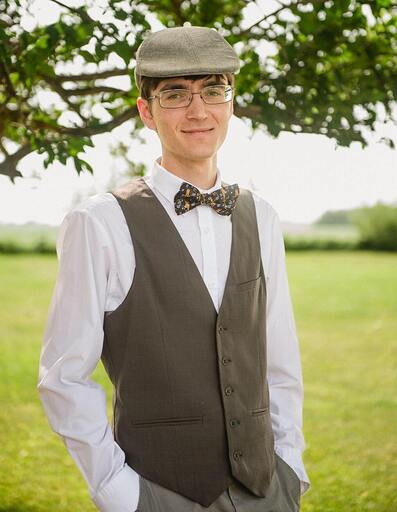
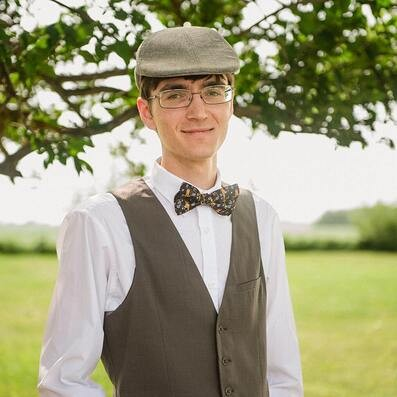
Updated mentor photos

diff --git a/_pages/about.md b/_pages/about.md
@@ -45,7 +45,7 @@ Feel free to contact us with any questions, comments, or concerns!
 </div>
 
 <div class="mentor-card" style="text-align: center;">
-    <img src="/assets/images/2025-26/mentors/placeholder.jpg" />
+    <img src="/assets/images/2025-26/mentors/Oliver_Wu.jpg" />
     <p> <b>Oliver Wu</b> <br>  Chemistry</p>
     <p> Andrew Hill Chief Program Officer </p>
 </div>
